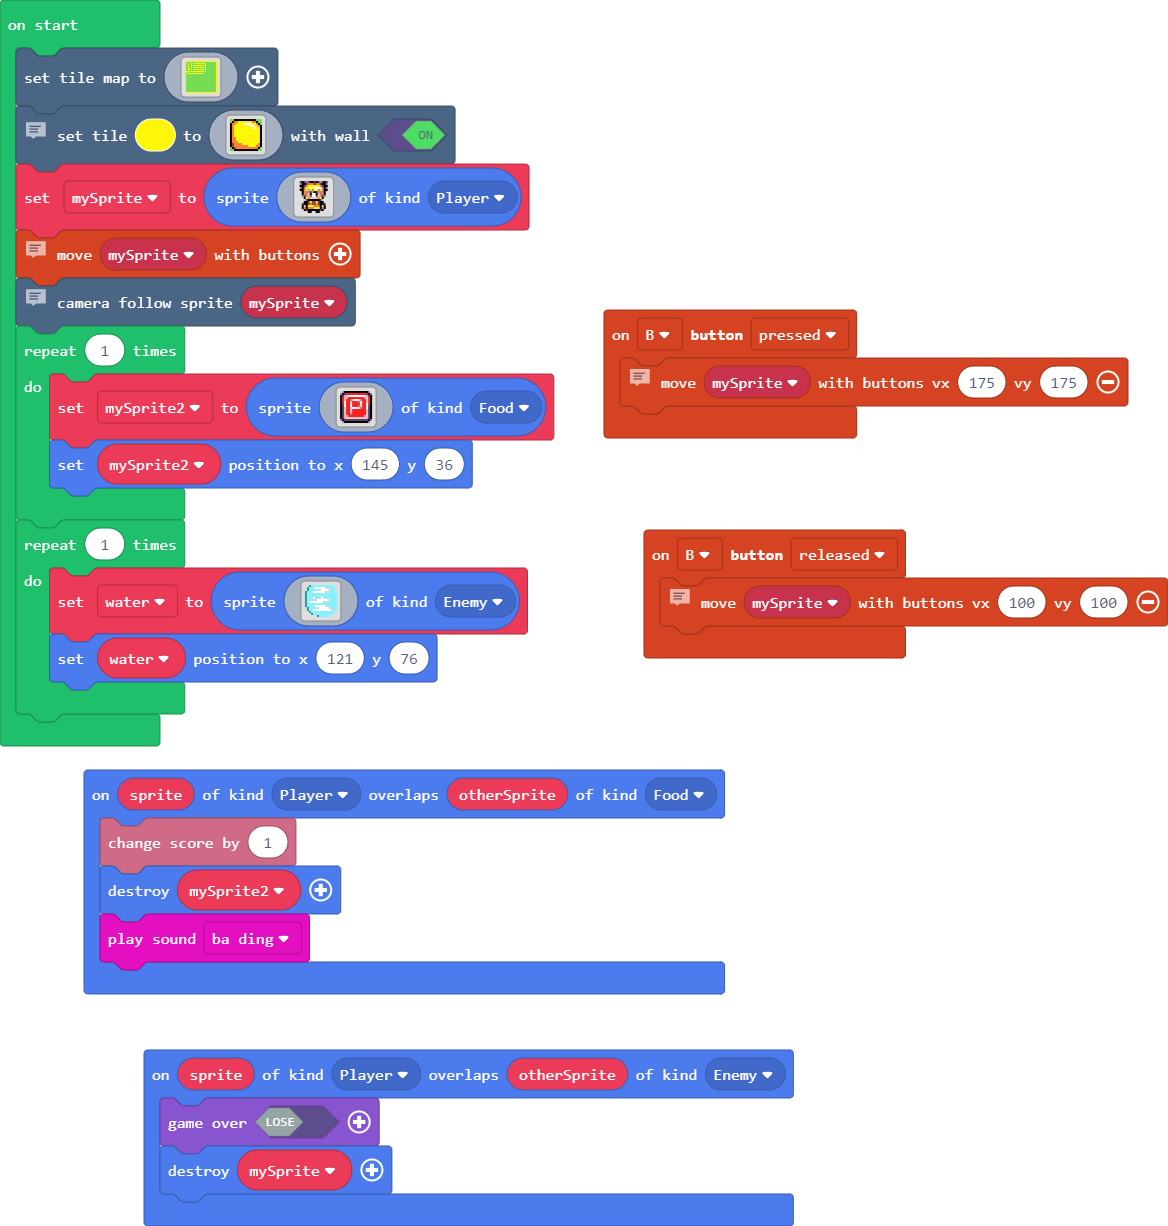
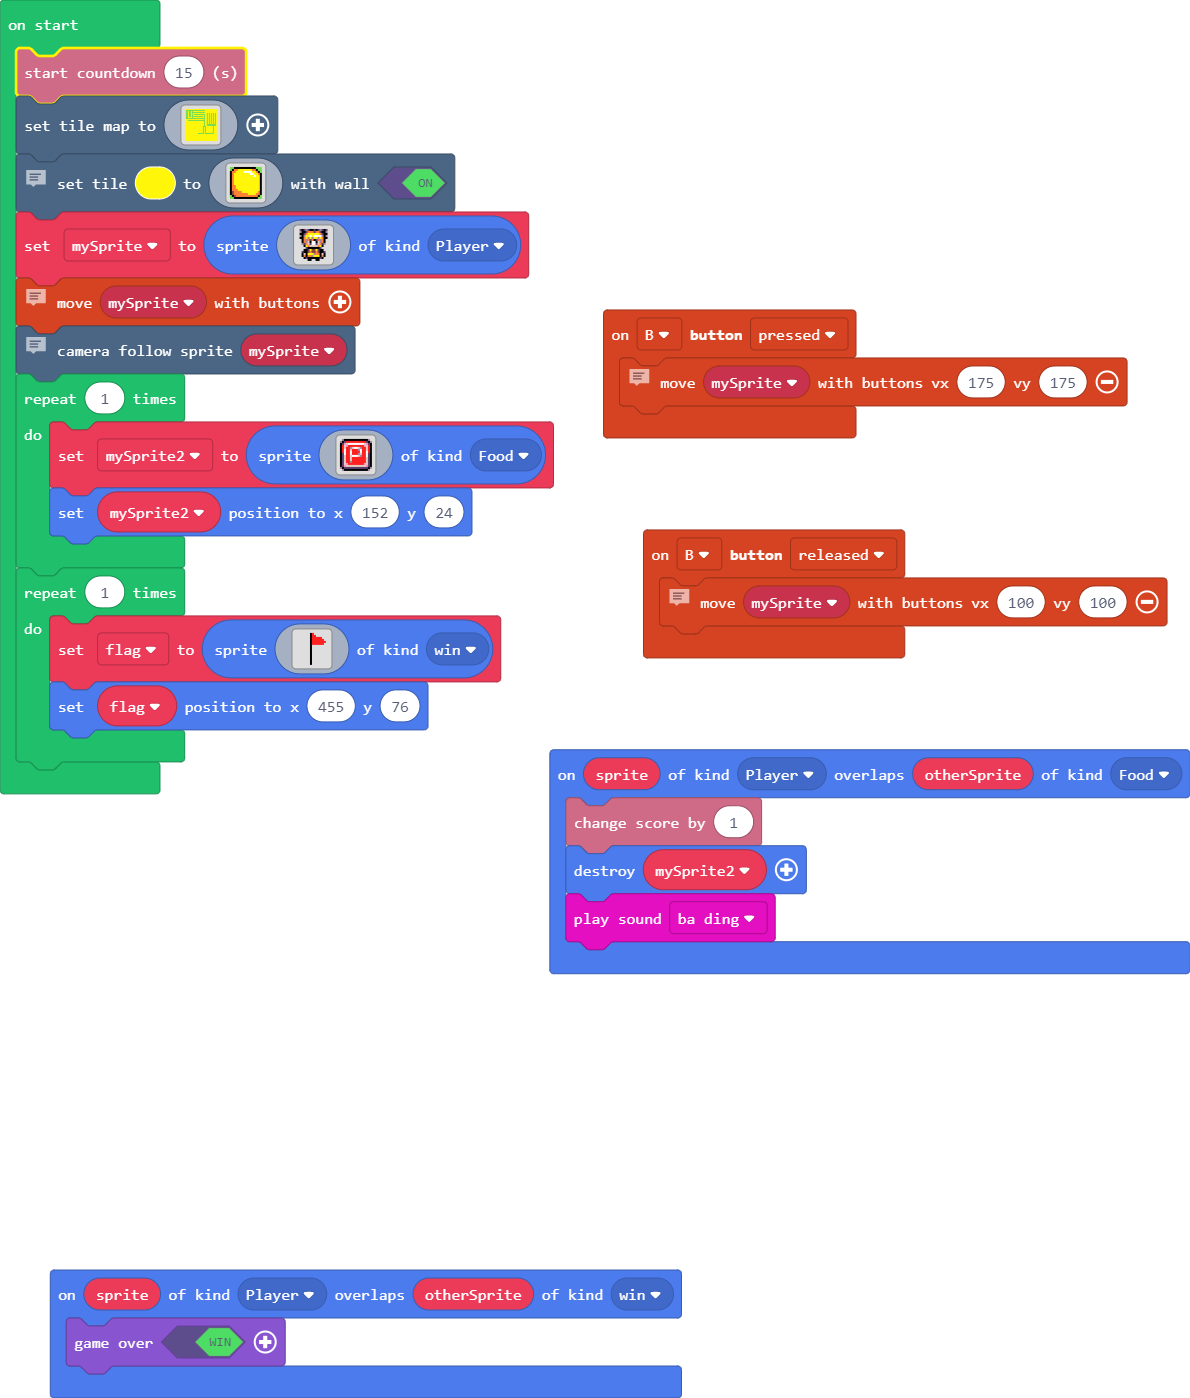
Update main.blocks, main.ts

diff --git a/main.ts b/main.ts
@@ -1,3 +1,6 @@
+namespace SpriteKind {
+    export const win = SpriteKind.create()
+}
 controller.B.onEvent(ControllerButtonEvent.Pressed, function () {
     // move yo body freery
     controller.moveSprite(mySprite, 175, 175)
@@ -11,45 +14,45 @@ controller.B.onEvent(ControllerButtonEvent.Released, function () {
     // move yo body freery
     controller.moveSprite(mySprite, 100, 100)
 })
-sprites.onOverlap(SpriteKind.Player, SpriteKind.Enemy, function (sprite, otherSprite) {
-    game.over(false)
-    mySprite.destroy()
+sprites.onOverlap(SpriteKind.Player, SpriteKind.win, function (sprite, otherSprite) {
+    game.over(true)
 })
-let water: Sprite = null
+let flag: Sprite = null
 let mySprite2: Sprite = null
 let mySprite: Sprite = null
+info.startCountdown(15)
 scene.setTileMap(img`
 5 5 5 5 5 5 5 5 5 5 5 5 5 5 5 5 5 5 5 5 5 5 5 5 5 5 5 5 5 5 5 5 
-5 7 7 7 7 7 7 7 7 7 7 7 7 7 7 7 7 7 7 7 7 7 7 7 7 7 7 7 7 7 7 5 
-5 7 7 5 7 7 5 7 5 5 5 5 5 5 5 5 5 5 5 5 5 7 7 7 7 7 7 7 7 7 7 5 
-5 7 7 5 7 7 5 7 7 7 7 7 7 7 7 7 7 7 7 7 5 7 7 7 7 7 7 7 7 7 7 5 
-5 7 7 5 7 7 5 7 5 5 5 5 5 5 5 5 5 5 5 5 5 7 7 7 7 7 7 7 7 7 7 5 
-5 7 7 5 7 7 5 7 5 7 7 7 7 7 7 7 7 7 7 7 5 7 7 7 7 7 7 7 7 7 7 5 
-5 7 7 5 7 7 5 7 5 5 5 5 5 5 5 5 5 5 5 7 5 7 7 7 7 7 7 7 7 7 7 5 
-5 7 7 5 7 7 5 7 7 7 7 7 7 7 7 7 7 7 5 7 5 7 7 7 7 7 7 7 7 7 7 5 
-5 7 7 5 5 5 5 7 5 5 5 5 5 5 5 5 5 5 5 7 5 7 7 7 7 7 7 7 7 7 7 5 
-5 7 7 7 7 7 7 7 7 7 7 7 7 7 7 7 7 7 7 7 5 7 7 7 7 7 7 7 7 7 7 5 
-5 5 5 5 5 5 5 5 5 5 5 5 5 5 5 5 5 5 5 7 5 7 7 7 7 7 7 7 7 7 7 5 
-5 7 5 7 7 7 7 7 7 7 7 7 7 7 7 7 7 7 7 7 7 7 7 7 7 7 7 7 7 7 7 5 
-5 7 5 5 5 5 5 5 5 5 5 5 5 5 5 5 5 5 5 7 7 7 7 7 7 7 7 7 7 7 7 5 
-5 7 7 7 7 7 7 7 7 7 7 7 7 7 7 7 7 7 7 7 7 7 7 7 7 7 7 7 7 7 7 5 
-5 7 7 7 7 7 7 7 7 7 7 7 7 7 7 7 7 7 7 7 7 7 7 7 7 7 7 7 7 7 7 5 
-5 7 7 7 7 7 7 7 7 7 7 7 7 7 7 7 7 7 7 7 7 7 7 7 7 7 7 7 7 7 7 5 
-5 7 7 7 7 7 7 7 7 7 7 7 7 7 7 7 7 7 7 7 7 7 7 7 7 7 7 7 7 7 7 5 
-5 7 7 7 7 7 7 7 7 7 7 7 7 7 7 7 7 7 7 7 7 7 7 7 7 7 7 7 7 7 7 5 
-5 7 7 7 7 7 7 7 7 7 7 7 7 7 7 7 7 7 7 7 7 7 7 7 7 7 7 7 7 7 7 5 
-5 7 7 7 7 7 7 7 7 7 7 7 7 7 7 7 7 7 7 7 7 7 7 7 7 7 7 7 7 7 7 5 
-5 7 7 7 7 7 7 7 7 7 7 7 7 7 7 7 7 7 7 7 7 7 7 7 7 7 7 7 7 7 7 5 
-5 7 7 7 7 7 7 7 7 7 7 7 7 7 7 7 7 7 7 7 7 7 7 7 7 7 7 7 7 7 7 5 
-5 7 7 7 7 7 7 7 7 7 7 7 7 7 7 7 7 7 7 7 7 7 7 7 7 7 7 7 7 7 7 5 
-5 7 7 7 7 7 7 7 7 7 7 7 7 7 7 7 7 7 7 7 7 7 7 7 7 7 7 7 7 7 7 5 
-5 7 7 7 7 7 7 7 7 7 7 7 7 7 7 7 7 7 7 7 7 7 7 7 7 7 7 7 7 7 7 5 
-5 7 7 7 7 7 7 7 7 7 7 7 7 7 7 7 7 7 7 7 7 7 7 7 7 7 7 7 7 7 7 5 
-5 7 7 7 7 7 7 7 7 7 7 7 7 7 7 7 7 7 7 7 7 7 7 7 7 7 7 7 7 7 7 5 
-5 7 7 7 7 7 7 7 7 7 7 7 7 7 7 7 7 7 7 7 7 7 7 7 7 7 7 7 7 7 7 5 
-5 7 7 7 7 7 7 7 7 7 7 7 7 7 7 7 7 7 7 7 7 7 7 7 7 7 7 7 7 7 7 5 
-5 7 7 7 7 7 7 7 7 7 7 7 7 7 7 7 7 7 7 7 7 7 7 7 7 7 7 7 7 7 7 5 
-5 7 7 7 7 7 7 7 7 7 7 7 7 7 7 7 7 7 7 7 7 7 7 7 7 7 7 7 7 7 7 5 
+5 7 7 7 7 7 7 7 7 7 7 7 7 7 7 7 7 7 7 7 5 5 5 5 5 5 5 5 5 5 5 5 
+5 7 7 5 7 7 5 7 5 5 5 5 5 5 5 5 5 5 5 5 5 5 5 5 5 5 5 5 5 5 5 5 
+5 7 7 5 7 7 5 7 7 7 7 7 7 7 7 7 7 7 7 7 5 5 5 5 5 5 5 5 5 5 5 5 
+5 7 7 5 7 7 5 7 5 5 5 5 5 5 5 5 5 5 5 5 5 5 7 5 7 5 7 5 7 5 7 5 
+5 7 7 5 7 7 5 7 5 7 7 7 7 7 7 7 7 7 7 7 5 5 7 5 7 5 7 5 7 5 7 5 
+5 7 7 5 7 7 5 7 5 5 5 5 5 5 5 5 5 5 5 7 5 5 7 5 7 5 7 5 7 5 7 5 
+5 7 7 5 7 7 5 7 7 7 7 7 7 7 7 7 7 7 5 7 5 5 7 5 7 5 7 5 7 5 7 5 
+5 7 7 5 5 5 5 7 5 5 5 5 5 5 5 5 5 5 5 7 5 5 7 5 7 5 7 5 7 5 7 5 
+5 7 7 7 7 7 7 7 7 7 7 7 7 7 7 7 7 7 7 7 5 5 7 5 7 5 7 5 7 5 7 5 
+5 5 5 5 5 5 5 5 5 5 5 5 5 5 5 5 5 5 5 7 5 5 7 5 7 5 7 5 7 5 7 5 
+5 5 5 7 7 7 7 7 7 7 7 7 7 7 7 7 7 7 7 7 5 5 7 5 7 5 7 5 7 5 7 5 
+5 5 5 5 5 5 5 5 5 5 5 5 5 5 5 5 5 5 5 7 5 5 7 5 7 5 7 5 7 5 7 5 
+5 5 5 5 5 5 5 5 5 5 5 5 5 5 5 5 5 5 5 7 5 5 7 5 7 5 7 5 7 5 7 5 
+5 5 5 5 5 5 5 5 5 5 5 5 5 5 5 5 5 5 5 7 5 5 7 5 7 5 7 5 7 5 7 5 
+5 5 5 5 5 5 5 5 5 5 5 5 5 5 5 5 5 5 5 7 5 5 7 7 7 7 7 7 7 7 7 5 
+5 5 5 5 5 5 5 5 5 5 5 5 5 5 5 5 5 5 5 7 5 5 7 7 7 7 7 7 7 7 7 5 
+5 5 5 5 5 5 5 5 5 5 5 5 5 5 5 5 5 5 7 7 7 5 5 5 5 5 5 5 7 5 5 5 
+5 5 5 5 5 5 5 5 5 5 5 5 5 5 5 5 5 5 7 5 7 5 5 5 5 5 5 5 7 5 5 5 
+5 5 5 5 5 5 5 5 5 5 5 5 5 5 5 5 5 5 7 5 7 5 5 5 5 5 5 5 7 5 5 5 
+5 5 5 5 5 5 5 5 5 5 5 5 5 5 5 5 5 5 7 5 7 5 5 5 5 5 5 5 7 5 5 5 
+5 5 5 5 5 5 5 5 5 5 5 5 5 5 5 5 5 5 7 5 7 5 5 5 5 5 5 5 7 5 5 5 
+5 5 5 5 5 5 5 5 5 5 5 5 5 5 5 5 5 5 7 5 7 5 5 5 5 5 5 5 7 5 5 5 
+5 5 5 5 5 5 5 5 5 5 5 5 5 5 5 5 5 5 7 5 7 5 5 5 5 5 5 5 7 5 5 5 
+5 5 5 5 5 5 5 5 5 5 5 5 5 7 7 7 7 7 7 5 7 7 7 7 7 7 7 7 7 5 5 5 
+5 5 5 5 5 5 5 5 5 5 5 5 5 5 5 5 5 5 5 5 5 5 5 5 5 5 5 5 5 5 5 5 
+5 5 5 5 5 5 5 5 5 5 5 5 5 5 5 5 5 5 5 5 5 5 5 5 5 5 5 5 5 5 5 5 
+5 5 5 5 5 5 5 5 5 5 5 5 5 5 5 5 5 5 5 5 5 5 5 5 5 5 5 5 5 5 5 5 
+5 5 5 5 5 5 5 5 5 5 5 5 5 5 5 5 5 5 5 5 5 5 5 5 5 5 5 5 5 5 5 5 
+5 5 5 5 5 5 5 5 5 5 5 5 5 5 5 5 5 5 5 5 5 5 5 5 5 5 5 5 5 5 5 5 
+5 5 5 5 5 5 5 5 5 5 5 5 5 5 5 5 5 5 5 5 5 5 5 5 5 5 5 5 5 5 5 5 
 5 5 5 5 5 5 5 5 5 5 5 5 5 5 5 5 5 5 5 5 5 5 5 5 5 5 5 5 5 5 5 5 
 `)
 // hippity hoppity this makes you stoppity
@@ -112,26 +115,26 @@ f c 3 d d d d d d d d d d 3 c f
 b f c c c c c c c c c c c c f b 
 . b f f f f f f f f f f f f b . 
 `, SpriteKind.Food)
-    mySprite2.setPosition(145, 36)
+    mySprite2.setPosition(152, 24)
 }
 for (let index = 0; index < 1; index++) {
-    water = sprites.create(img`
-. . 6 9 9 9 9 9 9 9 9 9 9 9 . . 
-. 6 9 9 d 1 1 1 1 1 d 9 9 9 9 . 
-. 6 9 9 9 9 9 d 1 1 1 1 d 9 9 . 
-6 9 9 d 1 1 1 1 1 1 d 9 9 9 9 9 
-6 9 9 9 9 9 9 9 9 9 9 9 9 9 9 9 
-6 9 9 9 9 9 9 9 9 9 9 9 9 9 9 9 
-6 9 9 d 1 d 9 d 1 d 9 9 9 9 9 9 
-6 9 9 9 9 d 1 1 1 1 1 1 d 9 9 9 
-6 d 1 1 1 1 1 1 1 d 9 9 9 9 9 9 
-6 9 9 9 9 9 9 9 9 9 9 9 9 9 9 9 
-6 9 9 9 d 1 1 1 1 1 d 9 9 9 9 9 
-. 6 9 9 9 9 d 1 1 1 1 1 d 9 9 9 
-. 6 9 d 1 1 1 1 1 1 1 1 1 d 9 9 
-. . 6 9 9 9 9 9 9 9 9 9 9 9 9 . 
-. . . 6 9 9 9 9 9 9 9 9 9 9 . . 
-. . . . . . 6 9 9 9 9 9 . . . . 
-`, SpriteKind.Enemy)
-    water.setPosition(121, 76)
+    flag = sprites.create(img`
+. . . . . . . f 2 . . . . . . . 
+. . . . . . . f 2 2 . . . . . . 
+. . . . . . . f 2 2 2 2 2 . . . 
+. . . . . . . f 2 2 2 2 2 2 . . 
+. . . . . . . f 2 2 2 2 2 2 2 . 
+. . . . . . . f 2 2 2 2 2 2 . . 
+. . . . . . . f . . . . . . . . 
+. . . . . . . f . . . . . . . . 
+. . . . . . . f . . . . . . . . 
+. . . . . . . f . . . . . . . . 
+. . . . . . . f . . . . . . . . 
+. . . . . . . f . . . . . . . . 
+. . . . . . . f . . . . . . . . 
+. . . . . . . f . . . . . . . . 
+. . . . . . . f . . . . . . . . 
+. . . . . . . f . . . . . . . . 
+`, SpriteKind.win)
+    flag.setPosition(455, 76)
 }
